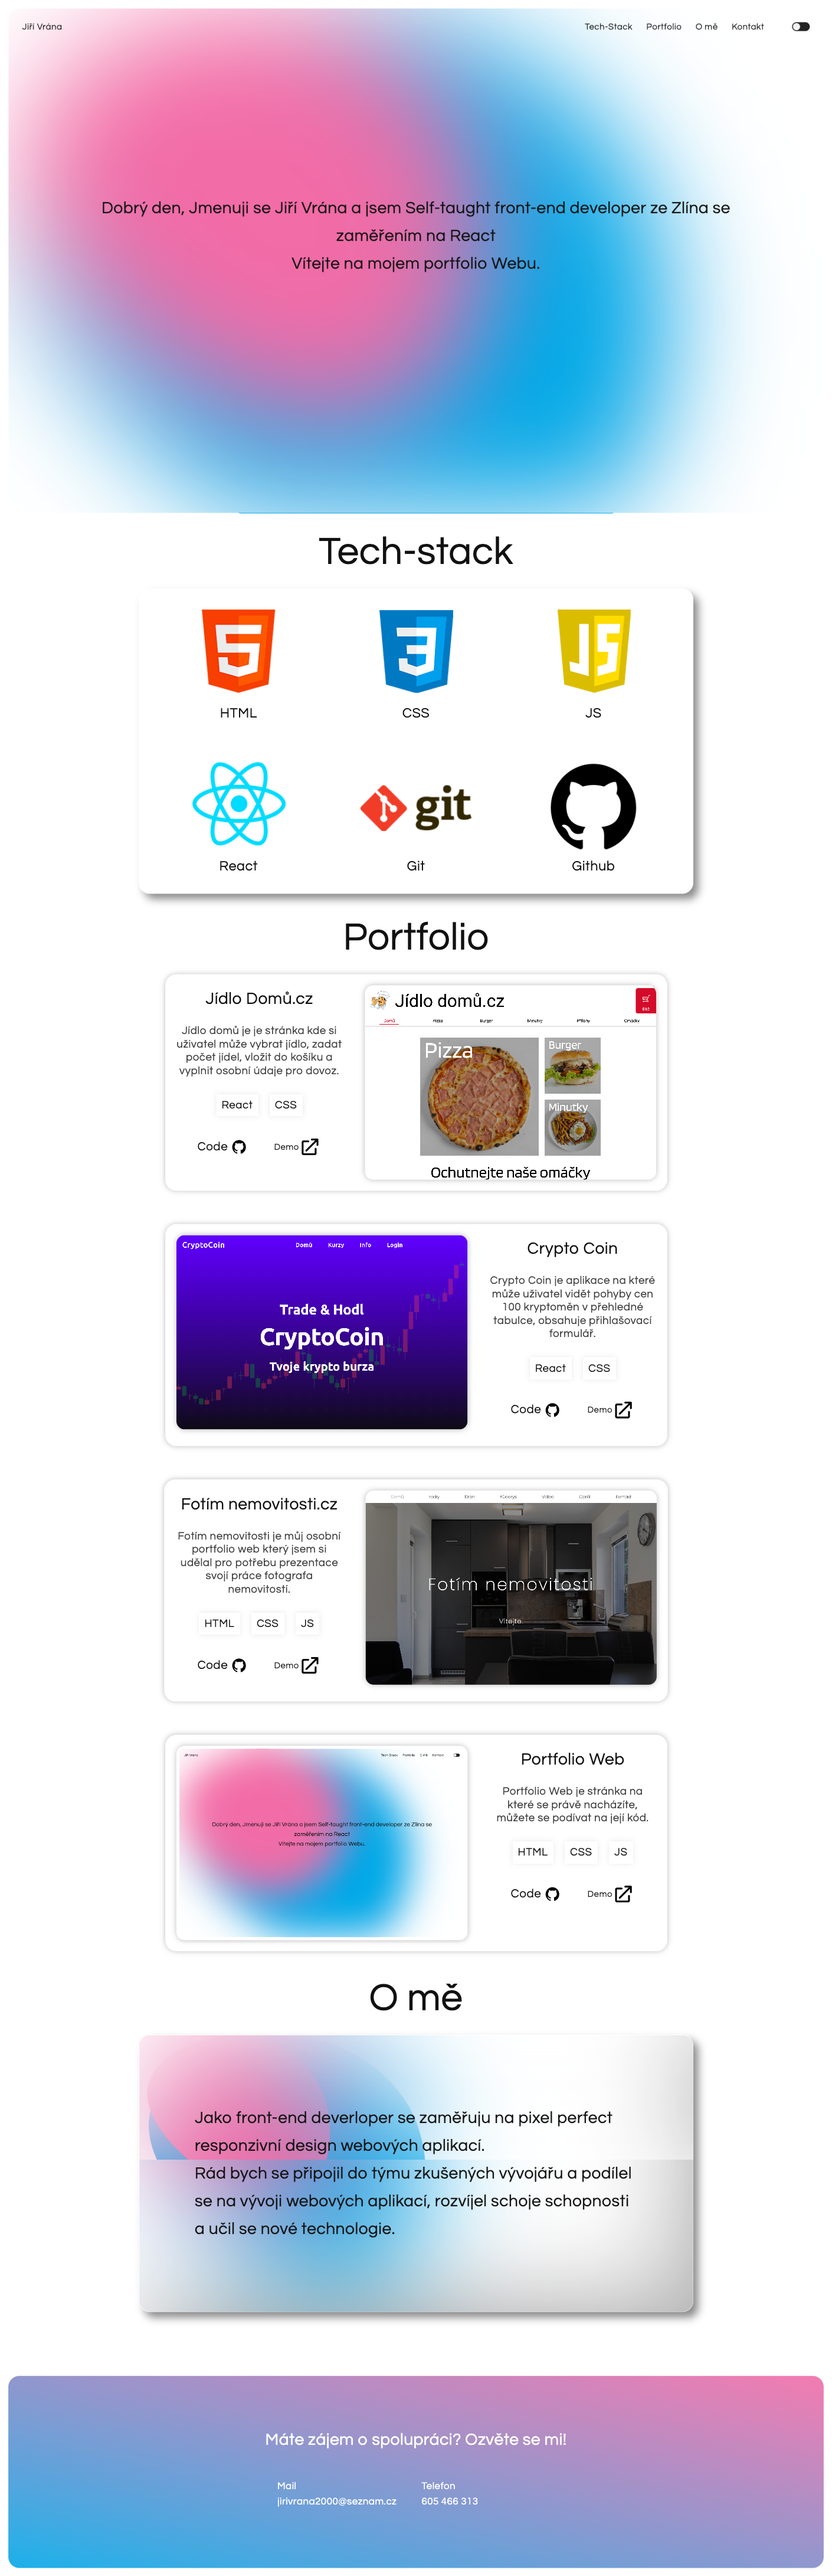
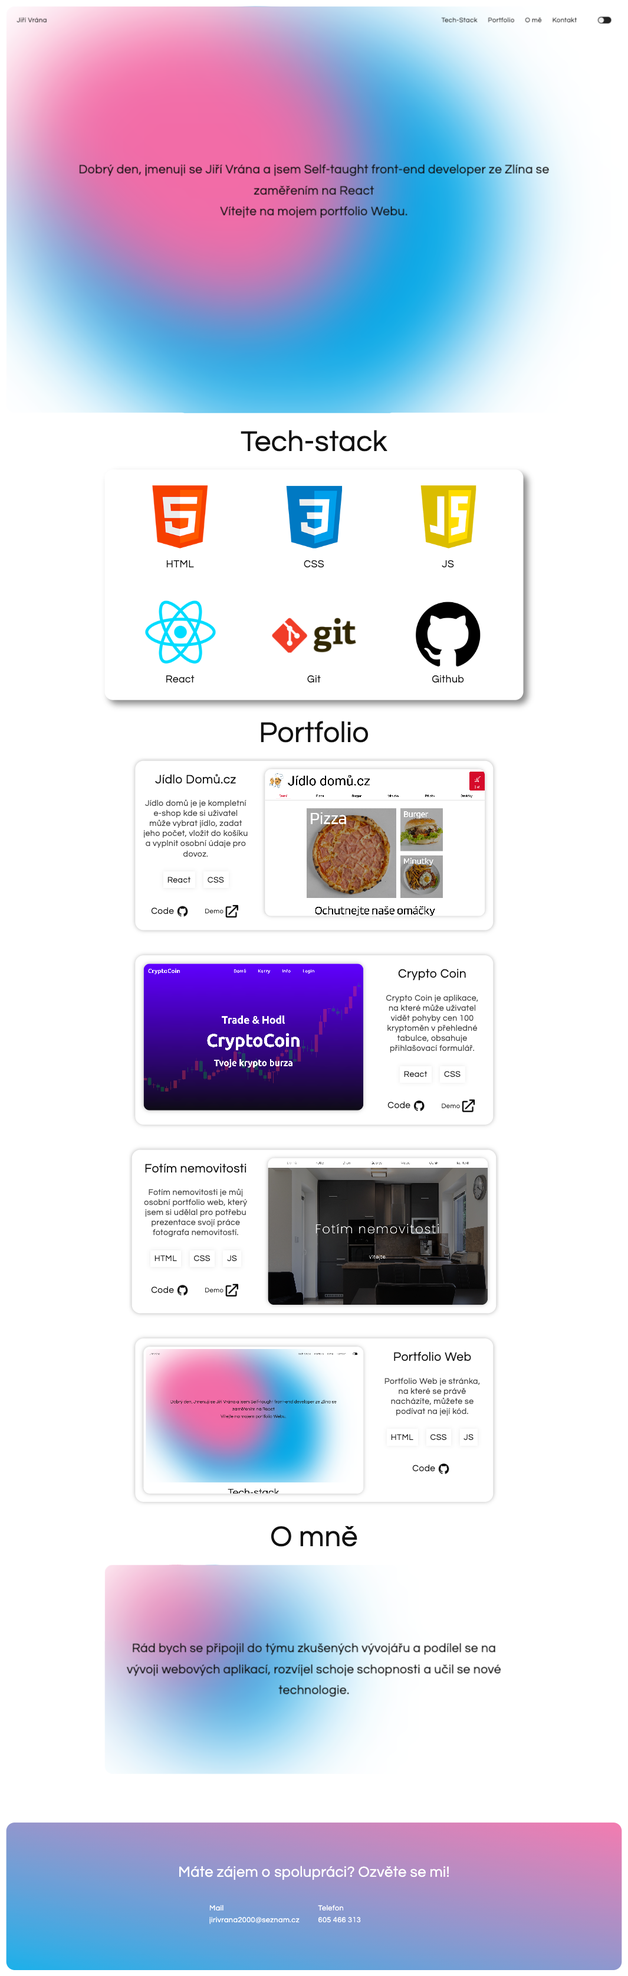
změněna náhledová fotografie portfolia

Changed region(s): [[0.0, 0.0932, 0.8676, 0.9011], [0.1239, 0.0621, 0.8676, 0.1243], [0.3718, 0.9322, 0.4028, 0.9633]]

diff --git a/index.html b/index.html
@@ -95,7 +95,7 @@
         <div class="oneProject" id="responsibility1">
             <div class="projectInfo">
                 <h4>Jídlo Domů.cz</h4>
-                <p class="projectInfoText">Jídlo domů je je stránka kde si uživatel může vybrat jídlo, zadat počet jídel, vložit do košíku a vyplnit osobní údaje pro dovoz.</p>
+                <p class="projectInfoText">Jídlo domů je je kompletní e-shop kde si uživatel může vybrat jídlo, zadat jeho počet, vložit do košíku a vyplnit osobní údaje pro dovoz.</p>
                 <div class="projectTech">
                     <p>React</p>
                     <p>CSS</p>
@@ -128,7 +128,7 @@
         </div>
         <div class="oneProject" id="responsibility2">
             <div class="projectInfo">
-                <h4>Fotím nemovitosti.cz</h4>
+                <h4>Fotím nemovitosti</h4>
                 <p class="projectInfoText">Fotím nemovitosti je můj osobní portfolio web, který jsem si udělal pro potřebu prezentace svojí práce fotografa nemovitostí.</p>
                 <div class="projectTech">
                     <p>HTML</p>
@@ -157,8 +157,7 @@
                     <p>JS</p>
                 </div>
                 <div class="linkContainer">
-                    <div class="projectCode"><p>Code</p><img class="projectImg" src="./img/Github.png" alt="Github Logo"></div>
-                    <div class="projectDemo"><p>Demo</p><img class="projectImg" src="./img/projectImg.png" alt=""></div>
+                    <a class="projectCode" href="https://github.com/jirivrana2000/Portfolio" target="_blank"><p>Code</p><img class="projectImg" src="./img/Github.png" alt="Github Logo"></a>
                 </div>
             </div>
         </div>
